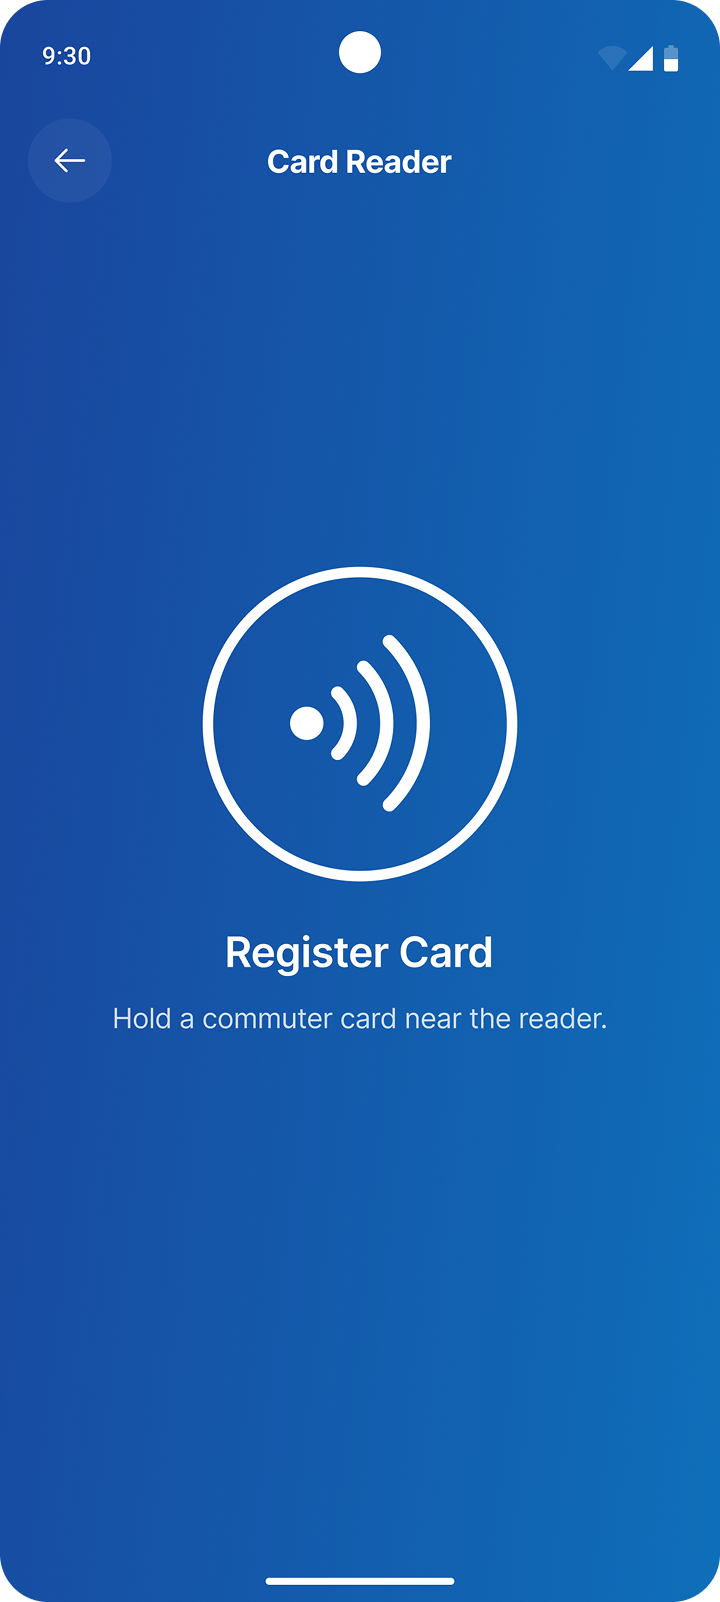
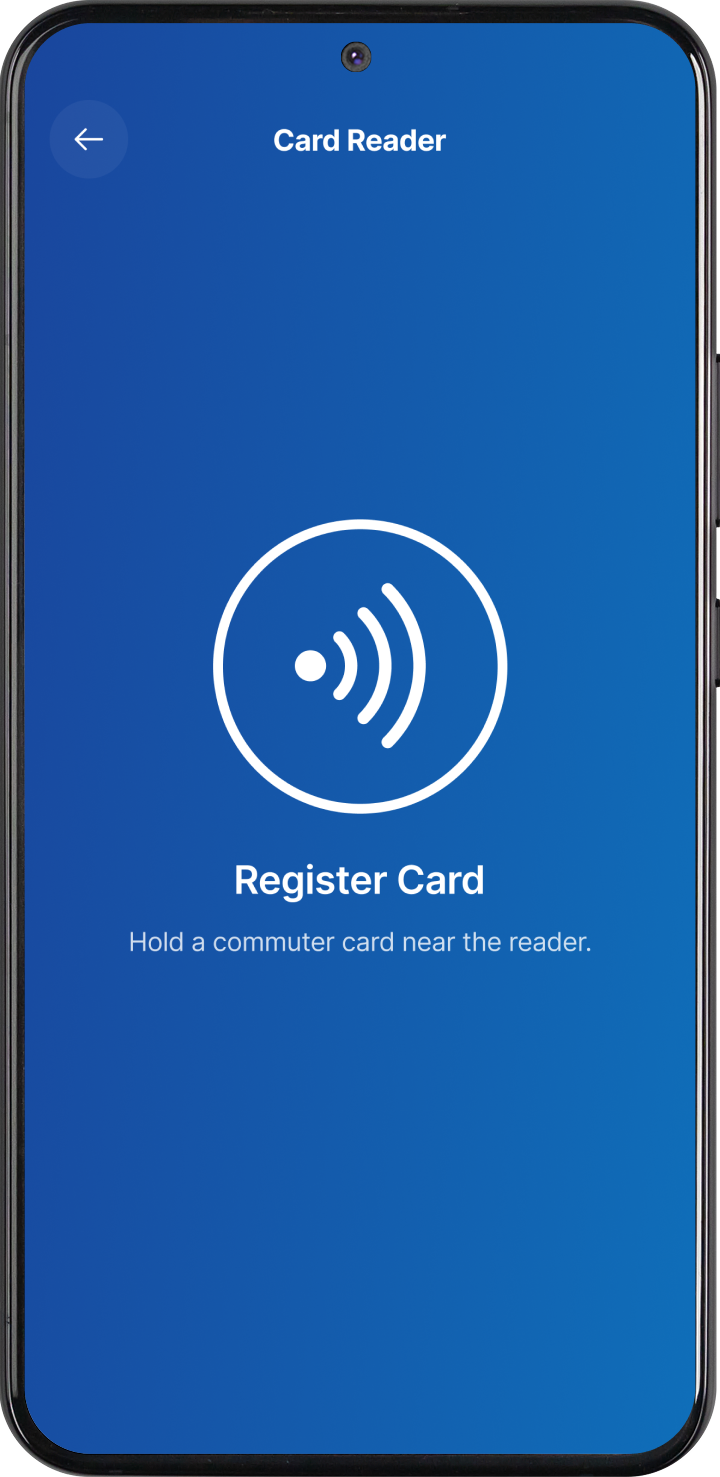
Refine project card hover effect and update agent POS images
- Title opacity on hover: 60% → 80%
- Card lift on hover: 4px → 3px
- Image scale on hover: 1.02 → 1.015
- Replace agent-pos images with updated versions

diff --git a/src/components/Projects.tsx b/src/components/Projects.tsx
@@ -49,7 +49,7 @@ export default function Projects() {
           >
             {/* 4R-0: 576×440, border-radius 24px, overflow clip */}
             <div
-              className="relative w-full overflow-hidden rounded-3xl bg-[#F8F8F8] dark:bg-white/[0.06] outline outline-1 outline-[#F2F2F2] dark:outline-white/[0.08] transition-[transform,box-shadow] duration-300 ease-out group-hover:-translate-y-1 group-hover:shadow-[0_8px_32px_rgba(0,0,0,0.08)] dark:group-hover:shadow-[0_8px_32px_rgba(0,0,0,0.3)]"
+              className="relative w-full overflow-hidden rounded-3xl bg-[#F8F8F8] dark:bg-white/[0.06] outline outline-1 outline-[#F2F2F2] dark:outline-white/[0.08] transition-[transform,box-shadow] duration-300 ease-out group-hover:-translate-y-[3px] group-hover:shadow-[0_8px_32px_rgba(0,0,0,0.08)] dark:group-hover:shadow-[0_8px_32px_rgba(0,0,0,0.3)]"
               style={{ height: 440 }}
             >
               <Image
@@ -66,7 +66,7 @@ export default function Projects() {
                   height: 640,
                   maxWidth: "none",
                 }}
-                className="transition-transform duration-500 ease-out group-hover:scale-[1.02] will-change-transform"
+                className="transition-transform duration-500 ease-out group-hover:scale-[1.015] will-change-transform"
                 priority
               />
             </div>
@@ -74,7 +74,7 @@ export default function Projects() {
             {/* Title + client */}
             <div className="flex flex-col gap-2">
               <h3
-                className="text-[22px] font-semibold leading-[30px] tracking-[-0.02em] text-[#333333] dark:text-white transition-opacity duration-300 ease-out group-hover:opacity-60"
+                className="text-[22px] font-semibold leading-[30px] tracking-[-0.02em] text-[#333333] dark:text-white transition-opacity duration-300 ease-out group-hover:opacity-80"
               >
                 {project.title}
               </h3>
